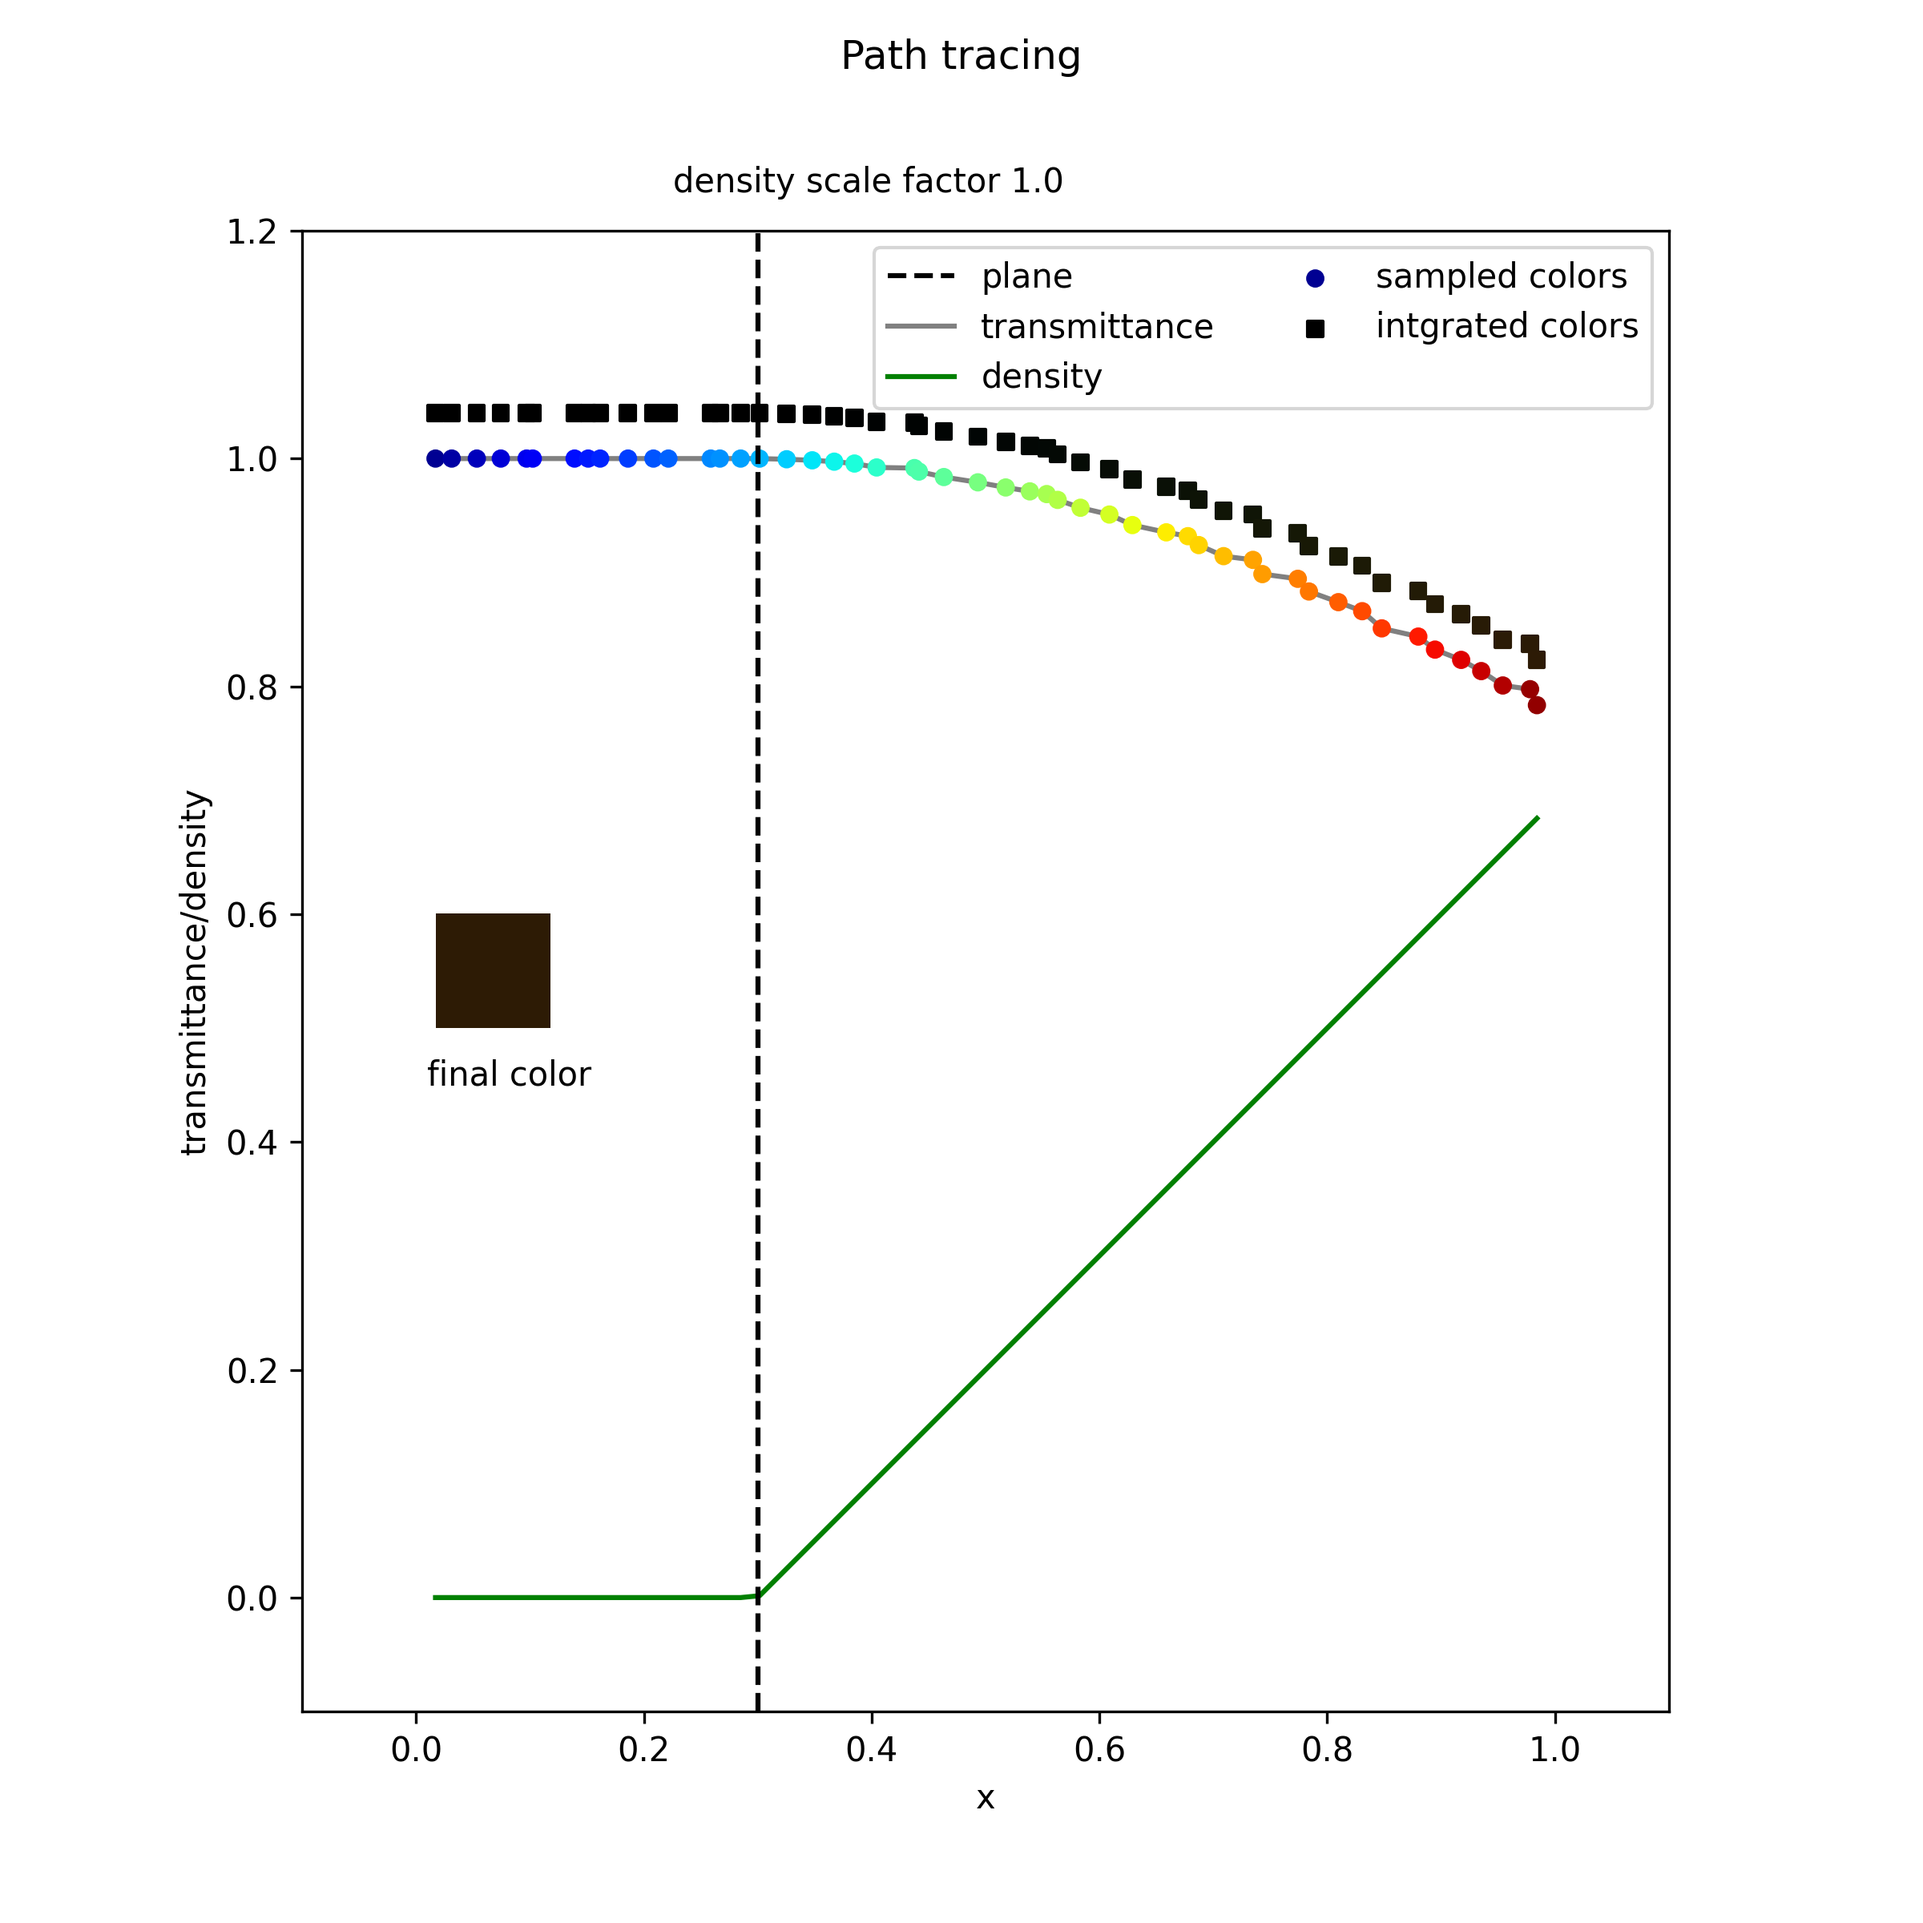
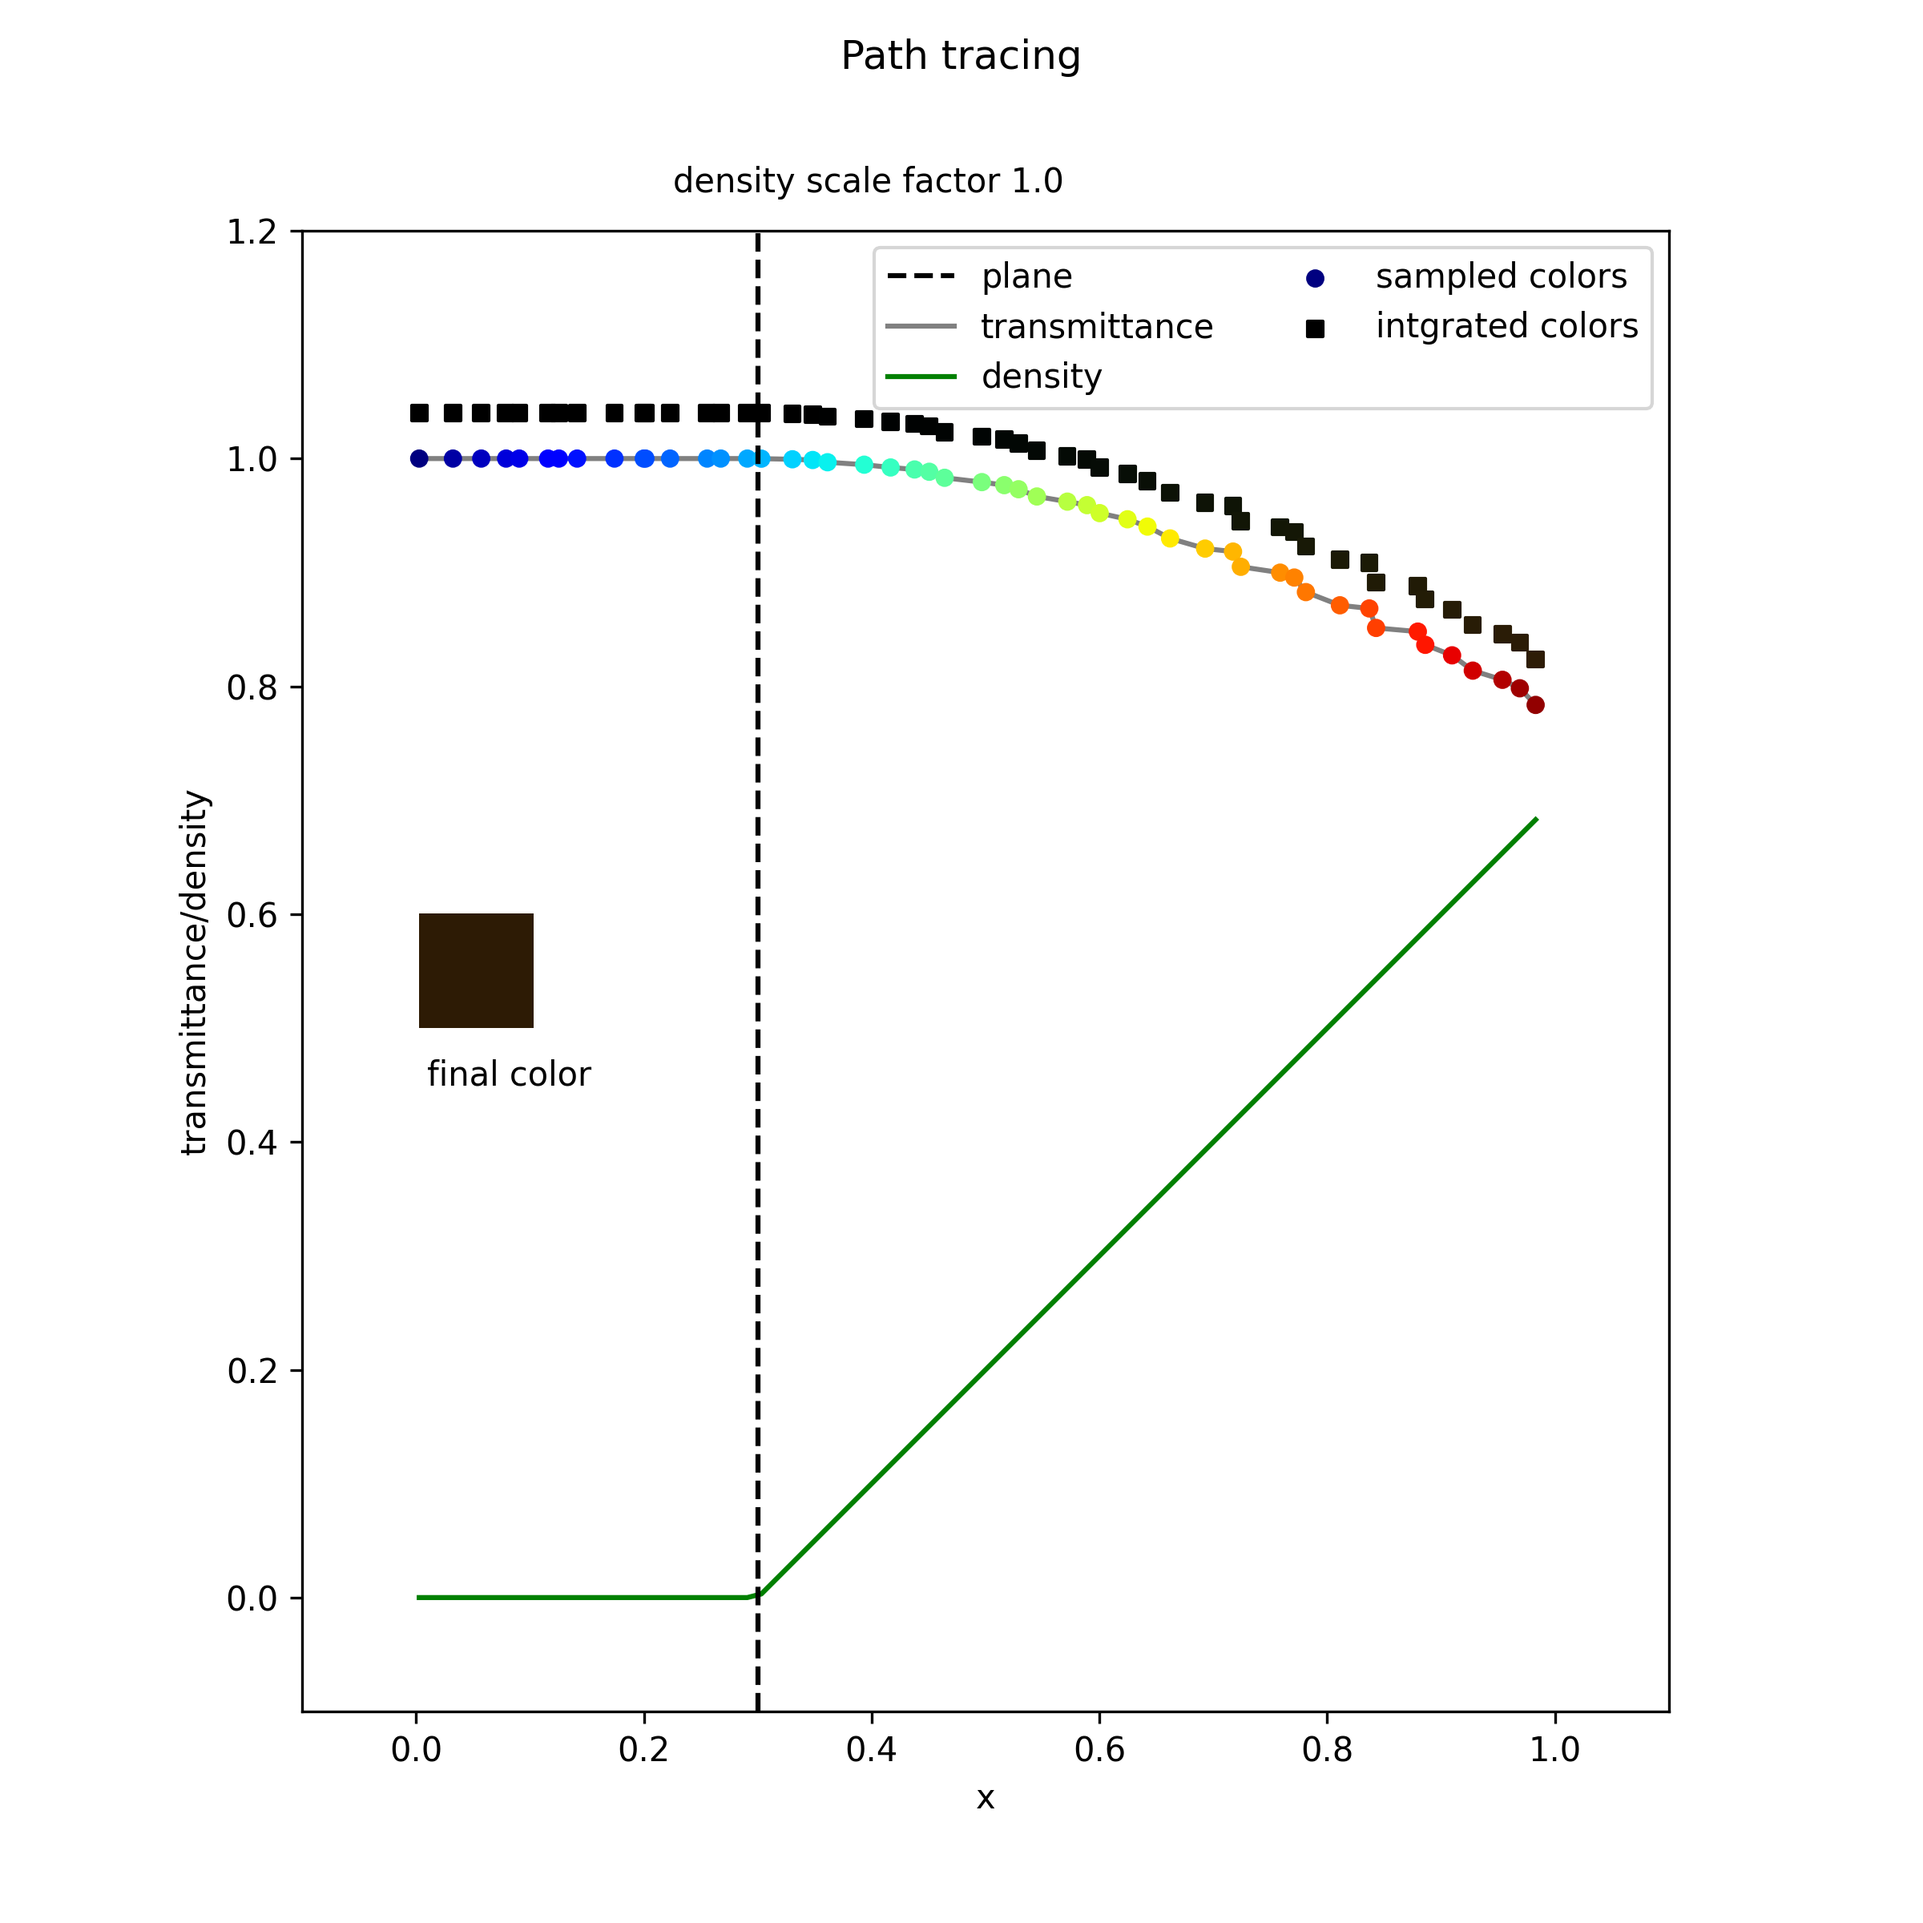
fixed examples

Changed region(s): [[0.375, 0.1875, 0.8125, 0.375], [0.2188, 0.1875, 0.3438, 0.25], [0.2188, 0.4688, 0.3125, 0.5312]]

diff --git a/scripts/visualize_path_tracing.py b/scripts/visualize_path_tracing.py
@@ -2,7 +2,7 @@ import torch
 import matplotlib as mpl
 import matplotlib.pyplot as plt
 
-from torchngp import radiance, geometric, sampling
+from torchngp import radiance, geometric, sampling, functional
 
 
 def plot_density_scale(ds, show=True):
@@ -16,8 +16,8 @@ def plot_density_scale(ds, show=True):
     tnear = torch.tensor([[1.0]])
     tfar = torch.tensor([[2.0]])
 
-    ts = sampling.sample_ray_step_stratified(tnear, tfar, 50)
-    xyz = geometric.evaluate_ray(o, d, ts)  # (T,B,3)
+    ts = functional.sample_ray_step_stratified(tnear, tfar, 50)
+    xyz = functional.evaluate_ray(o, d, ts)  # (T,B,3)
 
     color = torch.tensor(mpl.colormaps["jet"](xyz[..., 0].numpy()))  # (T,B,4)
     density = (
@@ -27,9 +27,9 @@ def plot_density_scale(ds, show=True):
     density[mask] = 0.0
     density[~mask] *= ds
 
-    ts_weights = radiance.integrate_timesteps(density, ts, dnorm, tfinal=tfar + 1e-2)
-    out_color = radiance.color_map(color[..., :3], ts_weights, per_timestep=True)
-    out_transm = 1.0 - radiance.alpha_map(ts_weights, per_timestep=True)
+    ts_weights = functional.integrate_timesteps(density, ts, dnorm, tfinal=tfar + 1e-2)
+    out_color = functional.color_map(color[..., :3], ts_weights, per_timestep=True)
+    out_transm = 1.0 - functional.alpha_map(ts_weights, per_timestep=True)
 
     fig, ax = plt.subplots(figsize=(8, 8))
     fig.text(0.35, 0.9, f"density scale factor {ds:.1f}")

diff --git a/scripts/visualize_informed_sampling.py b/scripts/visualize_informed_sampling.py
@@ -1,7 +1,7 @@
 import torch
 import matplotlib.pyplot as plt
 
-from torchngp import sampling
+from torchngp import functional
 
 
 def compute_weights(ts: torch.Tensor):
@@ -19,13 +19,13 @@ def main():
     tfar = torch.tensor([[10.0]]).expand(B, 1)
 
     # Uninformed samples and weights
-    ts = sampling.sample_ray_step_stratified(tnear, tfar, Ts)
+    ts = functional.sample_ray_step_stratified(tnear, tfar, Ts)
     # Lets assume weights peak around 5.0
 
     weights = compute_weights(ts)
 
     # Informed samples
-    ts_new = sampling.sample_ray_step_informed(
+    ts_new = functional.sample_ray_step_informed(
         ts, tnear, tfar, weights=weights, n_samples=Ti
     )
     weights_new = compute_weights(ts_new)
